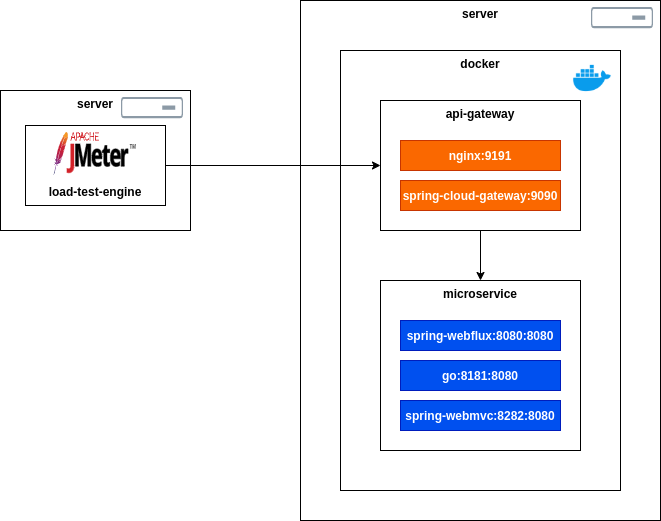
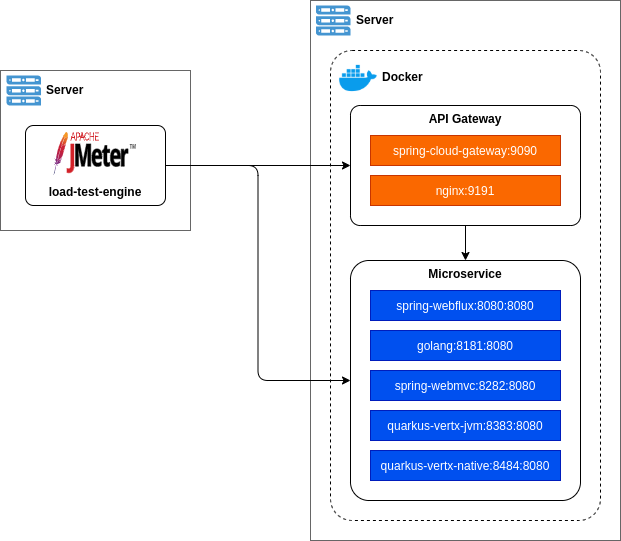
Register Quarkus Vert.x to API Gateway, update docs, polishing

diff --git a/README.md b/README.md
@@ -1,34 +1,50 @@
-# Demo API-Gateway with Microservices
+# API Gateway x Microservice
+- This project aims to explore API Gateway products combined with Microservice which uses several programming languages / frameworks.
+- The expectation:
+  - Advanced features & configurations.
+  - Performance / Utilization comparison report (startup time, throughput, latency, cpu usage, memory usage, system behaviour under high load to handling slow process / connection / downstream, etc).
+---
+At the microservice layer, we use static or dynamic REST API responses that have a delay capability in milliseconds that can affect variants of performance at the API Gateway & Microservices layer.
 
 ## Topology
 ![Topology](docs/topology.png)
 
+## Pre requiste
+- Git
+- Java JDK 8+
+- Docker
+- GraalVM (Quarkus native)
+- JMeter
+
 ## Technology
+### Service discovery
 - Spring Cloud Netflix Eureka
+
+### API Gateway / Reverse proxy
 - Spring Cloud Gateway
+- Nginx
+- Kong
+
+### Microservice
 - Spring Webflux
 - Spring Webmvc
 - Golang
-- Kong
-- Nginx
-- [ ] NodeJS
+- Play Framework
+- Vert.x
+- Quarkus Vert.x JVM
+- Quarkus Vert.x Native
+- Quarkus etc JVM
+- Quarkus etc Native
+- Akka
+- NodeJS
+
+### Testing tools
 - JMeter (test-plan-jmeter.jmx)
-
-## Pre requiste
-- Docker
-
-## List of API Gateway / Reverse proxy
-- Spring Cloud Gateway
-- Kong
-- Nginx
-
-## List of Microservices
-- Spring Webflux
-- Spring Webmvc
-- Go
 
 ## Build & Run
 ```shell script
+./build
+./run
 ./build-run
 ```
 
@@ -36,10 +52,12 @@
 
 ### API Gateway
  - URL: 
-    - /webflux/hello/name
-    - /webflux-lb/hello/name
-    - /webmvc/hello/name
-    - /go/hello/name
+    - /webflux/hello/{name}
+    - /webflux-lb/hello/{name}
+    - /webmvc/hello/{name}
+    - /go/hello/{name}
+    - /quarkus-vertx-jvm/hello/{name}
+    - /quarkus-vertx-native/hello/{name}
  - Query Parameter:
     - delay (optional)
  - API Gateway port:
@@ -48,13 +66,15 @@
 
 ### Microservice
  - URL: 
-    - /hello/name
+    - /hello/{name}
  - Query Parameter:
     - delay (optional)
  - Microservice port:
     - Spring Webflux: 8080
     - Golang: 8181
     - Spring Webmvc: 8282
+    - Quarkus Vert.x JVM: 8383
+    - Quarkus Vert.x Native: 8484
 
 ## Test
 Open jmeter test plan file (<b>test-plan-jmeter.jmx</b>) to run the test.<br/>
